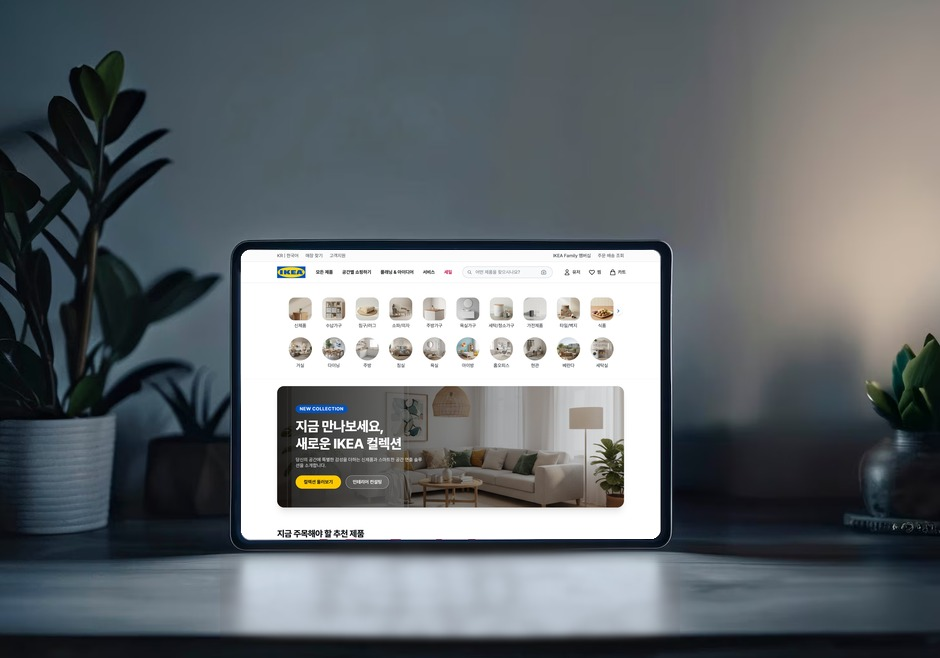
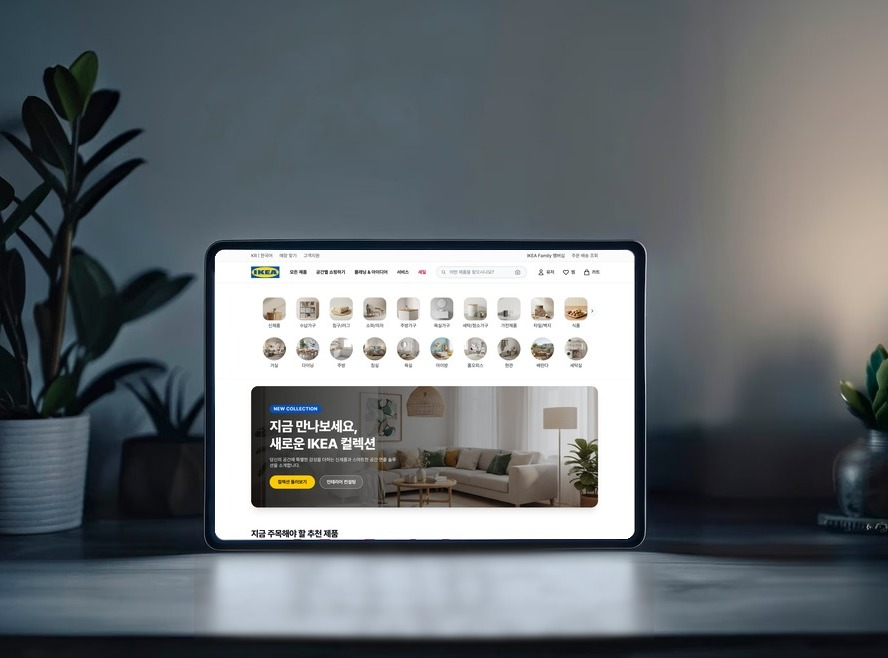
Whiten footer signature, widen contact copy on mobile, resharpen IKEA thumb
Claude-Session: https://claude.ai/code/session_01Liy31Bc38A4WQLTcfpaeWp

diff --git a/src/ContactPage.tsx b/src/ContactPage.tsx
@@ -209,7 +209,7 @@ export default function ContactPage() {
               시작해볼까요?
             </span>
           </h1>
-          <p className="mt-7 max-w-[620px] whitespace-normal md:whitespace-nowrap text-[15px] md:text-[20px] leading-[1.55] tracking-[-0.03em] text-black/85 md:ml-[46%] md:mt-7">
+          <p className="mt-7 max-w-[620px] whitespace-normal md:whitespace-nowrap text-[16px] md:text-[20px] leading-[1.55] tracking-[-0.03em] text-black/85 md:ml-[46%] md:mt-7">
             문의 양식을 작성해 주시면 최대한 빠르게 답변드리겠습니다.
           </p>
         </section>

diff --git a/src/PortfolioPage.tsx b/src/PortfolioPage.tsx
@@ -1055,7 +1055,7 @@ export function ContactSection() {
           <img
             src={signatureImg}
             alt="Seung Lee 서명"
-            className="pointer-events-none absolute left-1/2 top-1/2 w-[150px] -translate-x-1/2 -translate-y-1/2 object-contain"
+            className="pointer-events-none absolute left-1/2 top-1/2 w-[150px] -translate-x-1/2 -translate-y-1/2 object-contain brightness-0 invert"
           />
         </div>
 
